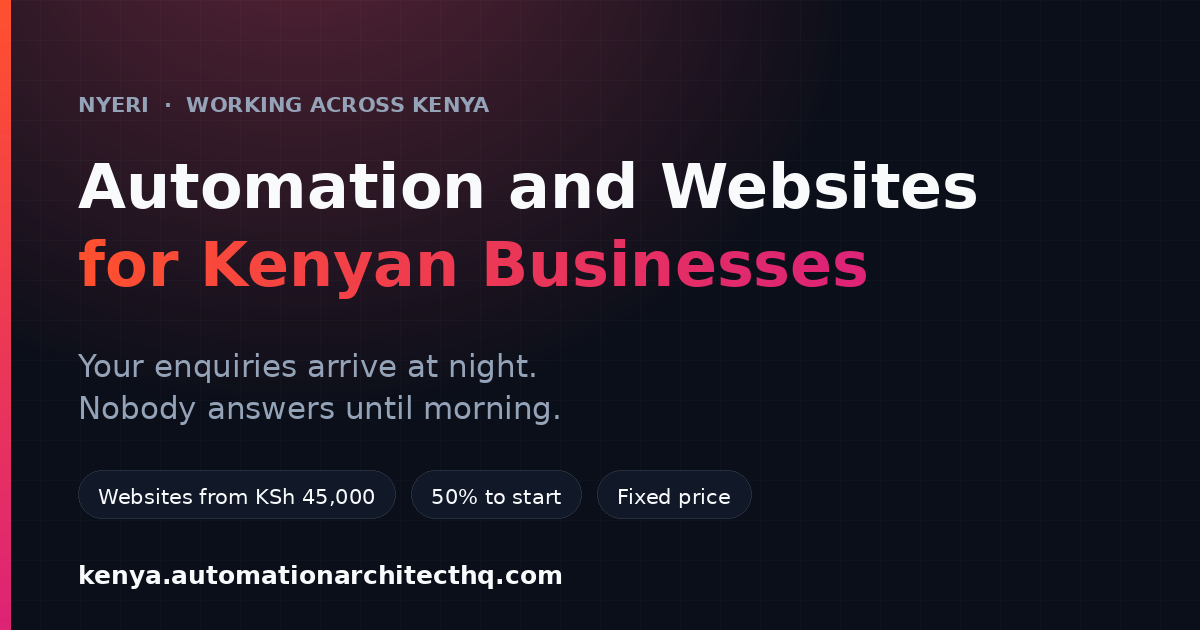
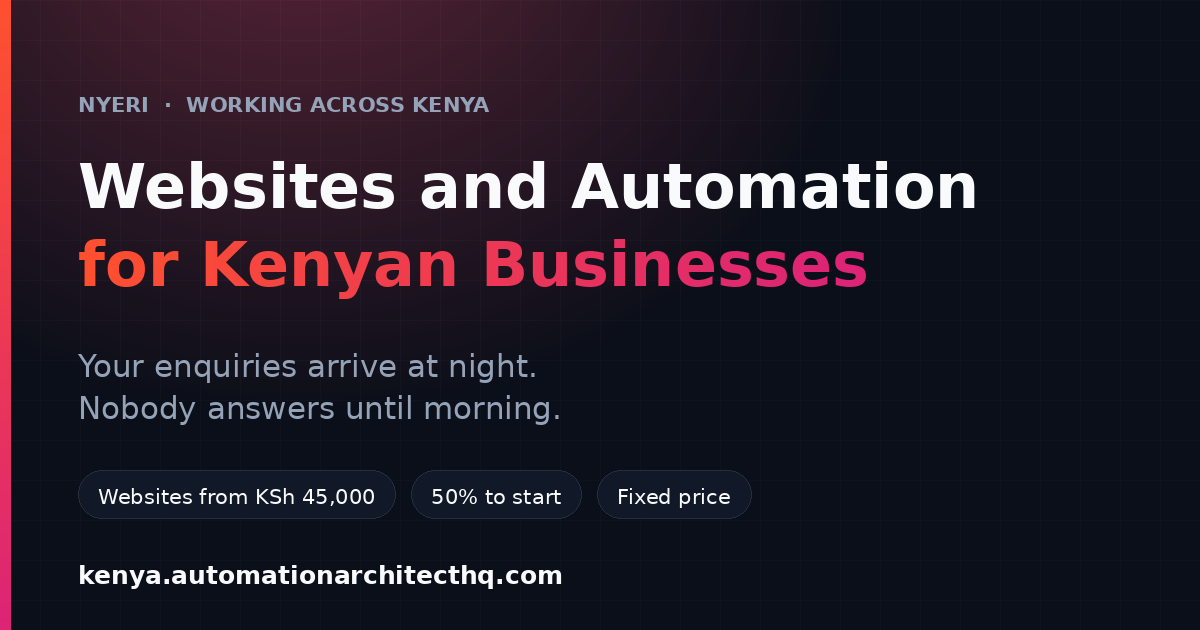
Websites and Automation for Kenyan Businesses

Changed region(s): [[0.0617, 0.2413, 0.8325, 0.3317]]

diff --git a/index.html b/index.html
@@ -4,7 +4,7 @@
     <meta charset="UTF-8" />
     <meta name="viewport" content="width=device-width, initial-scale=1.0" />
 
-    <title>Automation and Websites for Kenyan Businesses — Nyeri</title>
+    <title>Websites and Automation for Kenyan Businesses — Nyeri</title>
     <meta
       name="description"
       content="Websites on your own domain, and systems that answer enquiries at 2am, chase the follow-ups nobody remembers, and stop leads going cold. Built in Nyeri. Fixed price in KSh, 50% to start."
@@ -13,7 +13,7 @@
     <meta property="og:type" content="website" />
     <meta property="og:site_name" content="The Automation Architect" />
     <meta property="og:url" content="https://kenya.automationarchitecthq.com/" />
-    <meta property="og:title" content="Automation and Websites for Kenyan Businesses" />
+    <meta property="og:title" content="Websites and Automation for Kenyan Businesses" />
     <meta
       property="og:description"
       content="Your enquiries arrive at night. Nobody answers until morning. I build the website and the system that answers. From KSh 45,000 — 50% to start."
@@ -22,7 +22,7 @@
     <meta property="og:image:width" content="1200" />
     <meta property="og:image:height" content="630" />
     <meta name="twitter:card" content="summary_large_image" />
-    <meta name="twitter:title" content="Automation and Websites for Kenyan Businesses" />
+    <meta name="twitter:title" content="Websites and Automation for Kenyan Businesses" />
     <meta
       name="twitter:description"
       content="Your enquiries arrive at night. Nobody answers until morning. I build the website and the system that answers."
